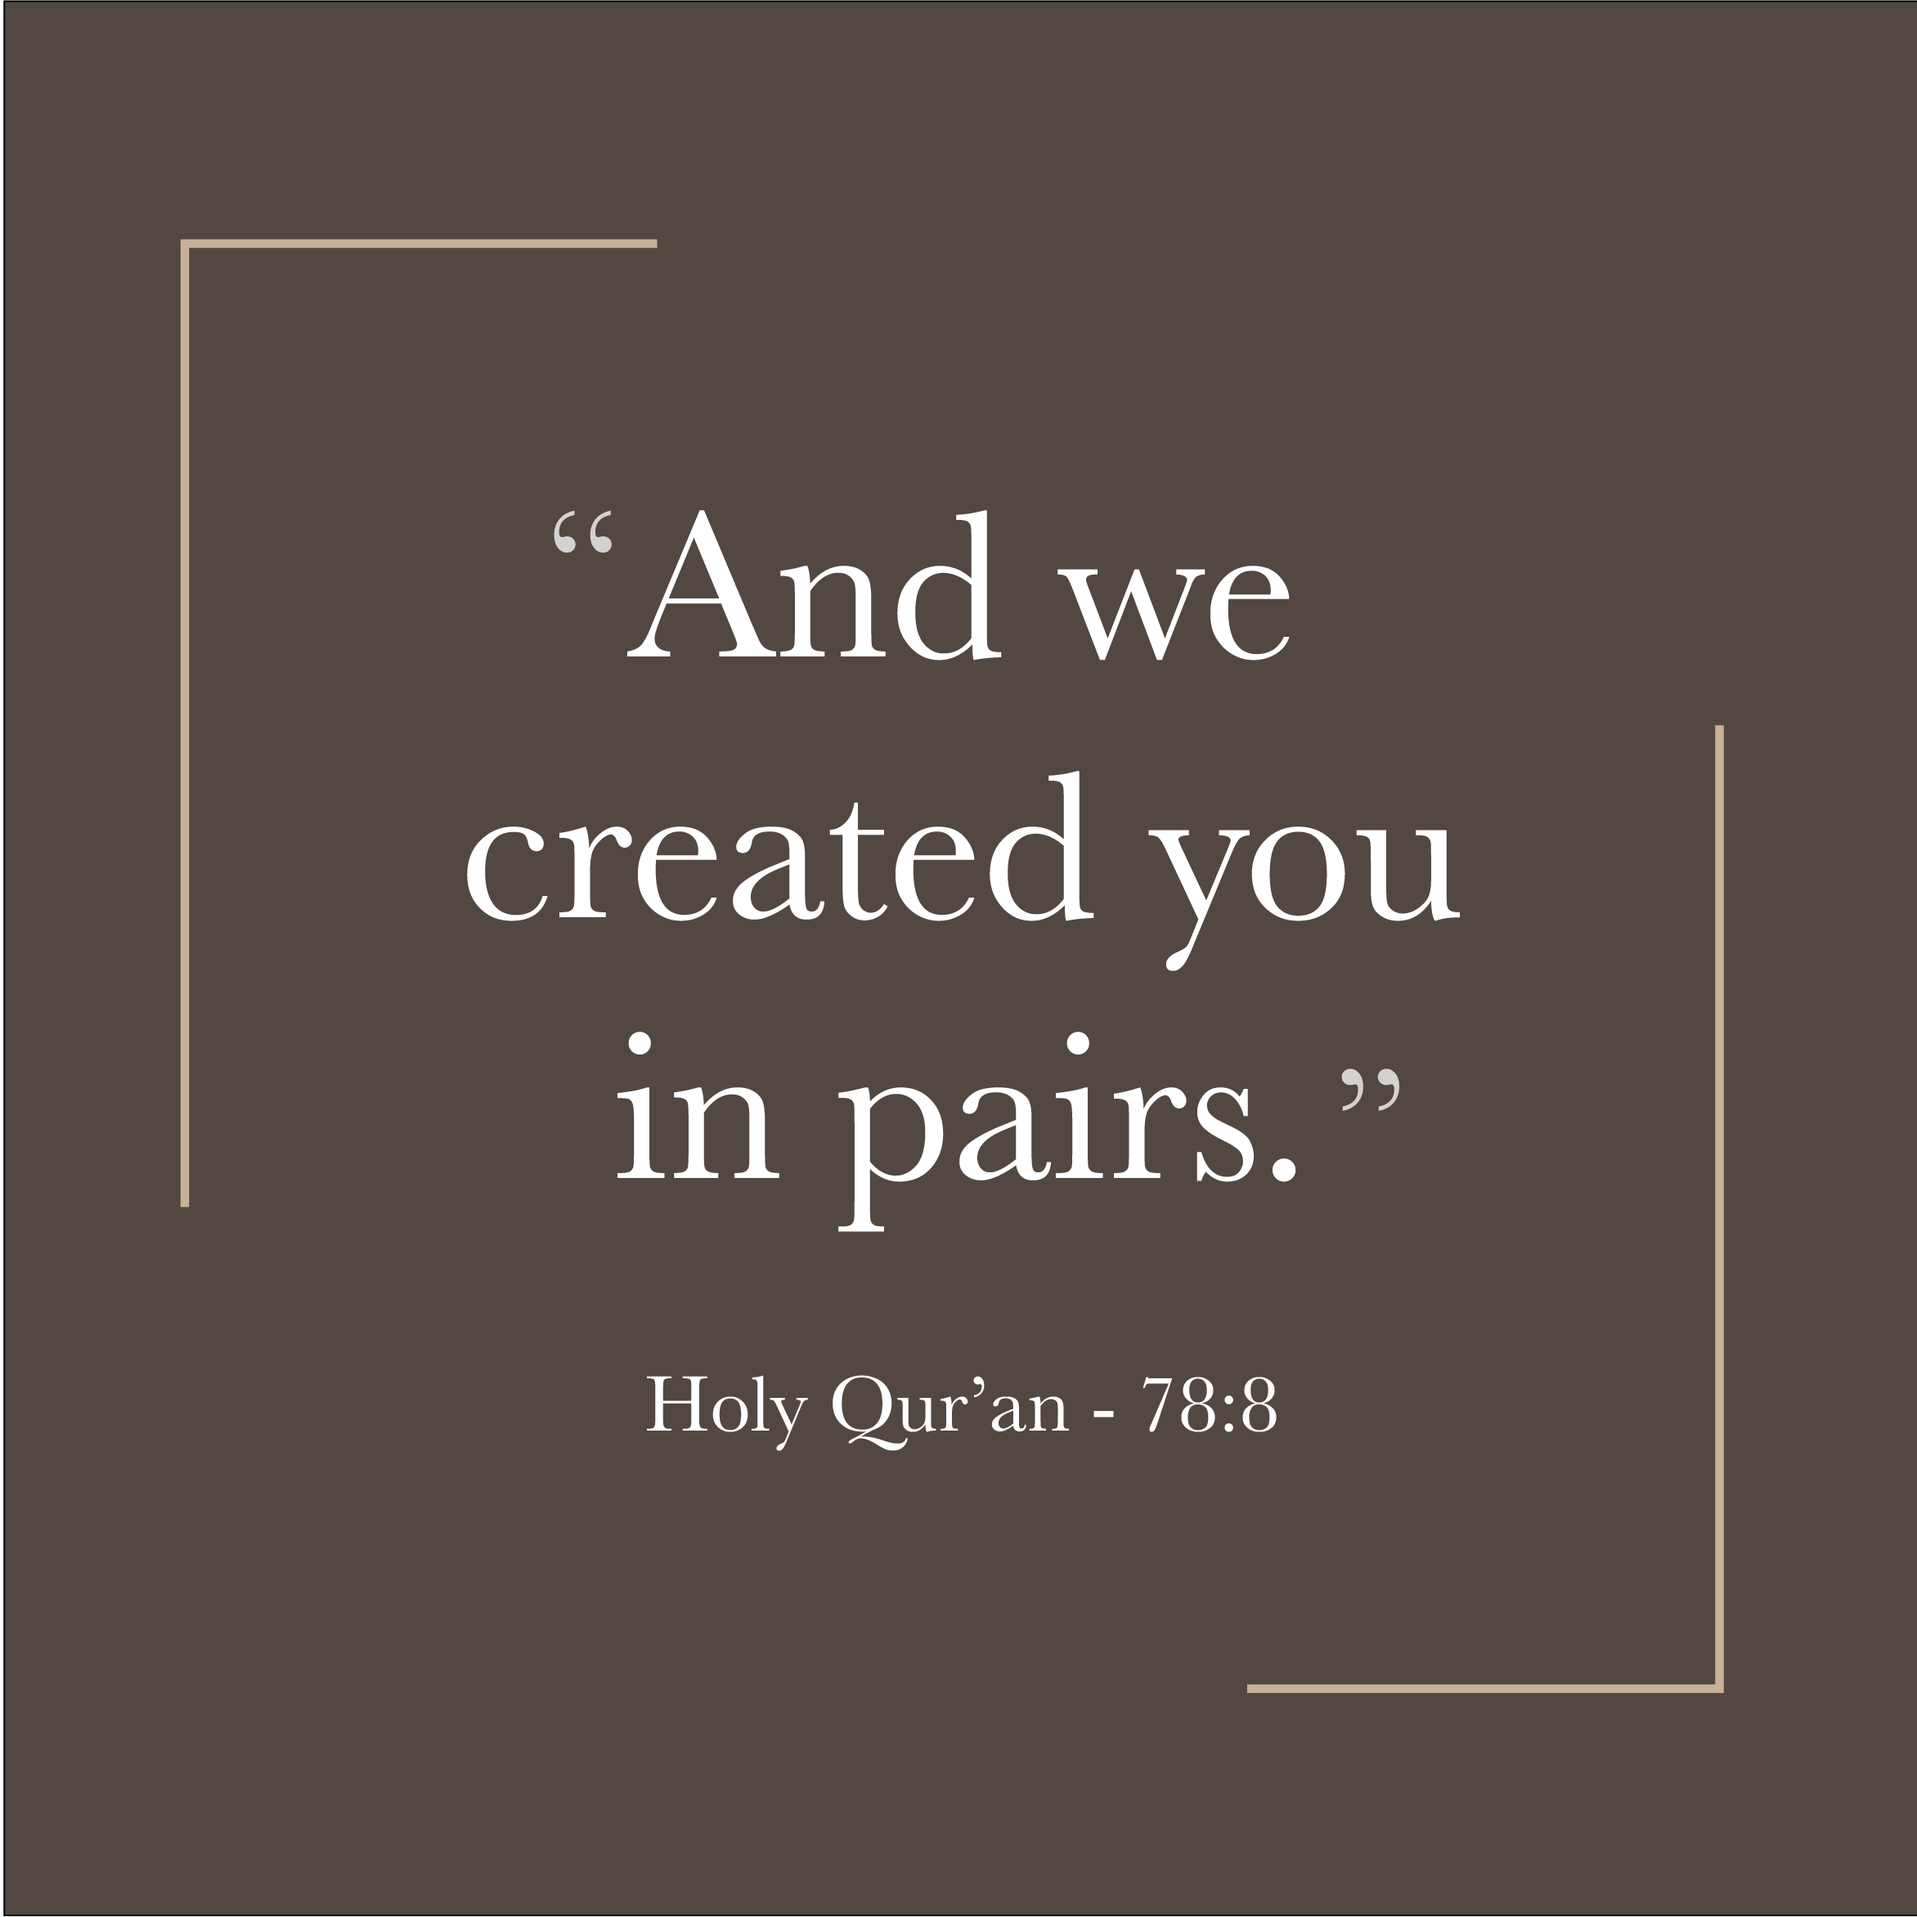
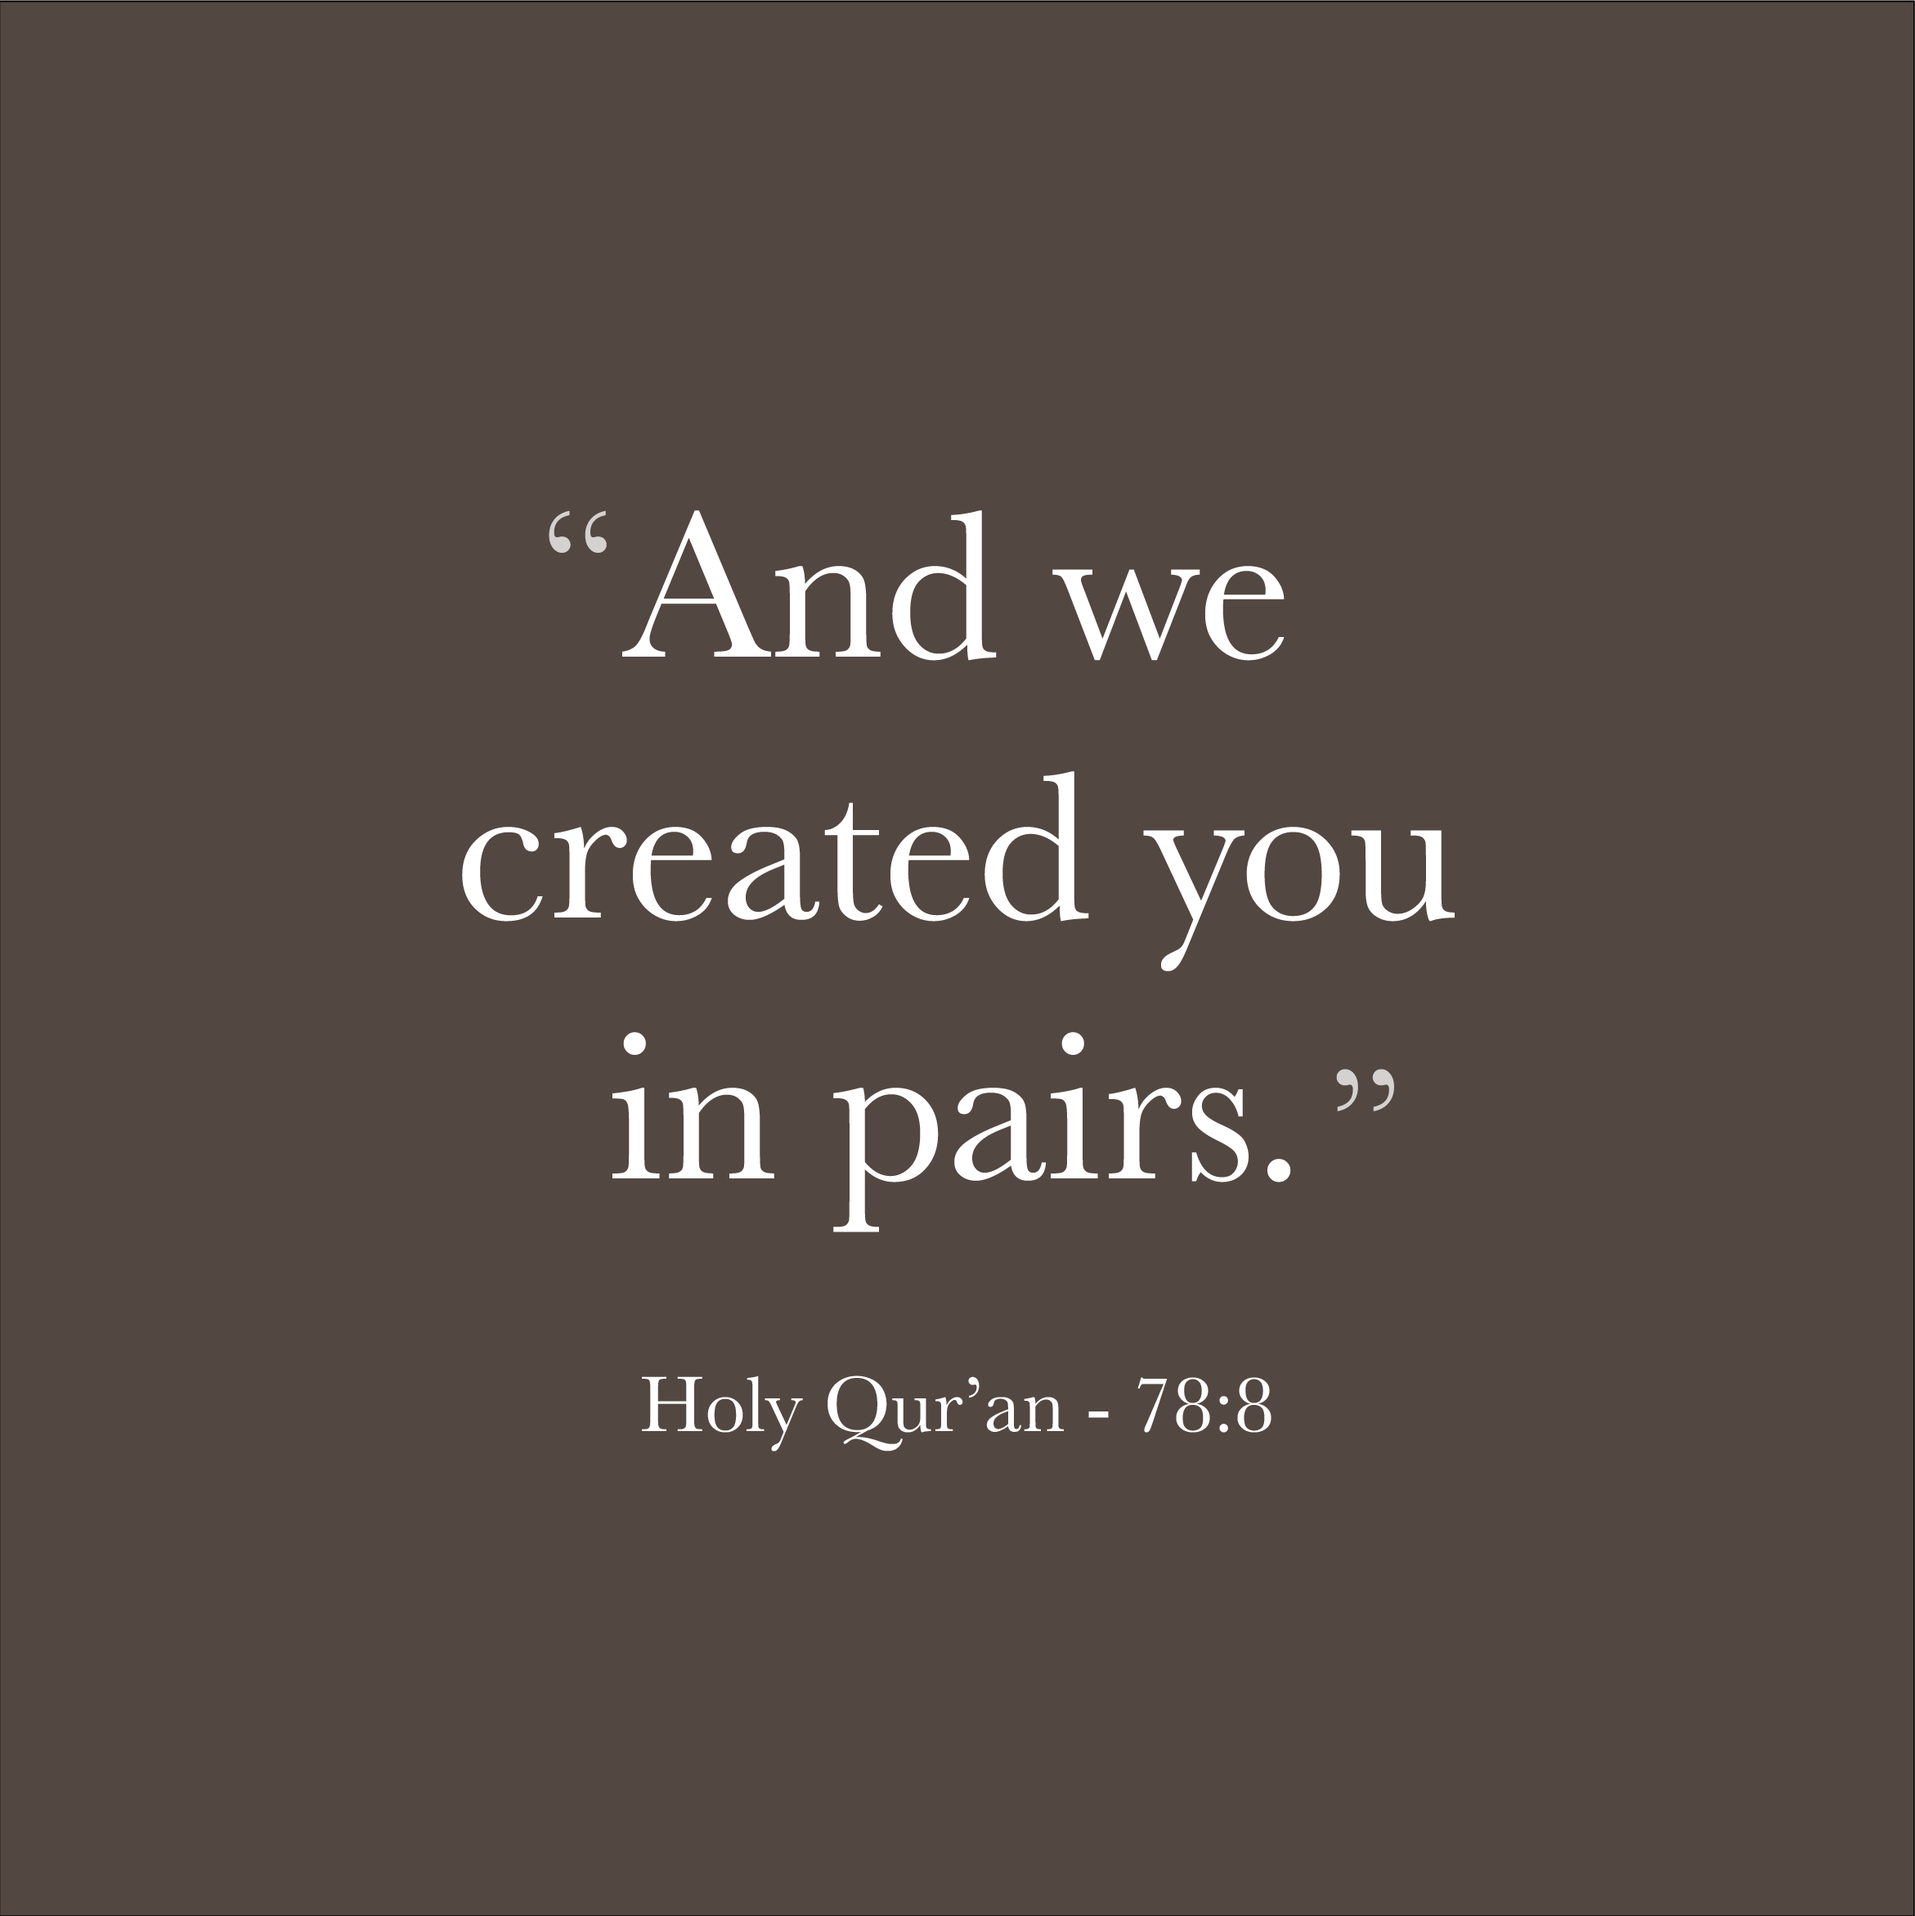
final

diff --git a/index.css b/index.css
@@ -10,6 +10,10 @@
 
 body {
     margin: 0;
+    display: flex;
+    justify-content: center;
+    flex-direction: column;
+    align-items: center;
 }
 
 .cover-container {
@@ -37,6 +41,21 @@ body {
     position: absolute;
     top: 30vw;
     left: 10vw;
+    animation: 1s ease-out 0s 1 name-slide;
+
+}
+
+@keyframes name-slide {
+    0% {
+        transform: translateX(-50px);
+        opacity: 0;
+        filter: blur(20px);
+    }
+    100% {
+        transform: translateX(0px);
+        opacity: 1;
+        filter: blur(0px);
+    }
 }
 
 h1 {
@@ -59,7 +78,22 @@ h1 {
 .date-container {
     position: absolute;
     right: 10vw;
-    bottom: 20vw;
+    bottom: 25vw;
+    animation: 1s ease-out 0s 1 date-slide;
+
+}
+
+@keyframes date-slide {
+    0% {
+        transform: translateX(50px);
+        opacity: 0;
+        filter: blur(20px);
+    }
+    100% {
+        transform: translateX(0px);
+        opacity: 1;
+        filter: blur(0px);
+    }
 }
 
 .date-container h1 {
@@ -120,6 +154,10 @@ p {
     font-size: 36px;
     margin: 5px;
     top: 13vw;
+    width: 0%;
+    text-align: center;
+    overflow: hidden;
+    white-space: nowrap;
 }
 
 .time-container h3:nth-of-type(2) {
@@ -129,7 +167,21 @@ p {
     font-size: 24px;
     margin: 5px;
     top: 25vw;
+    width: 0%;
+    text-align: center;
+    overflow: hidden;
+    white-space: nowrap;
 }
+
+.typing {
+    animation: typing 2s ease-in forwards;
+
+}
+
+@keyframes typing {
+    from { width: 0% }
+    to { width: 100% }
+  }
 
 .venue-container {
     position: relative;
@@ -155,13 +207,30 @@ p {
     left: 50%;
     transform: translateX(-50%);
     font-size: 72px;
-    filter: drop-shadow(0px 0px 5px black);
+    opacity: 0;
+    filter: drop-shadow(0px 0px 5px black) blur(20px);
+    
+}
+
+.venue-fade {
+    animation: venue-fade 1s ease-out forwards;
 }
 
 .venue-container h2 {
     font-weight: 200;
     font-size: 22px;
     width: 80%;
+}
+
+@keyframes venue-fade {
+    0% {
+        opacity: 0;
+        filter: blur(20px);
+    }
+    100% {
+        opacity: 1;
+        filter: blur(0px);
+    }
 }
 
 .venue-container h2 {
@@ -172,35 +241,95 @@ p {
 .venue-container h2::before, .venue-container h2::after {
     position: absolute;
     top: 51%;
-    width: 15%;
+    width: 5%;
     height: 1px;
     content: '';
     background-color: #534741;
 }
 
 .venue-container h2::before {
-    margin-left: -16vw;
+    margin-left: -6vw;
     text-align: right;
 }
 
 .venue-container h2::after {
-    margin-left: 4vw;
+    margin-left: 2vw;
     text-align: right;
 }
 
 #address {
-    letter-spacing: 2px;
+    letter-spacing: 0px;
+    text-align: center;
     margin-top: 0;
 }
 
 #dress-colour {
     color: #c7b299;
+    display: inline;
+    position: relative;
+    animation: underline 1s ease-out forwards;
+}
+
+#dress-colour::after {
+    content: '';
+    position: absolute;
+    width: 100%;
+    height: 1px;
+    bottom: 0;
+    left: 0;
+    transform: scaleX(0);
+    background-color: #c7b299;
+    transform-origin:bottom left;
+    transition: all 1s ease-out;
+}
+
+@keyframes underline {
+    0% {
+        transform: scaleX(0);
+    }
+    100% {
+        transform: scaleX(1);
+    }
+}
+
+.quote-container {
+    display: flex;
+    justify-content: center;
+    align-items: center;
+    flex-direction: column;
+    margin-top: 50px;
+    margin-bottom: 50px;
+    position: relative;
 }
 
 .quote {
-    margin-top: 50px;
     width: 100%;
-    margin-bottom: 50px;
+}
+
+#quote-border {
+    position: absolute;
+    width: 80%;
+}
+
+.quote-lines {
+
+    fill: none;
+    stroke: #c7b299;
+    stroke-linecap: round;
+    stroke-linejoin: round;
+    stroke-width: 5px;
+    stroke-dasharray: 1000;
+    stroke-dashoffset: 1000;
+}
+
+.quote-anim {
+    animation: drawlines 2s ease-out forwards;
+}
+
+@keyframes drawlines {
+    to {
+        stroke-dashoffset: 0;
+    }
 }
 
 .stats-container {

diff --git a/index.html b/index.html
@@ -42,24 +42,36 @@
 
   <div class="time-container">
     <img src="img/floral.webp">
-    <h3>Saturday 7pm</h3>
-    <h3>2nd of December 2023</h3>
+    <h3 id="date-1">Saturday 7pm</h3>
+    <h3 id="date-2">2nd of December 2023</h3>
   </div>
 
   <div class="venue-container">
    <div id="vanilla-container">
-    <img src="img/vanilla.png">
-    <h1>VENUE</h1>
+    <img src="img/venue.png">
+    <h1 id="venue-label">VENUE</h1>
    </div>
-   <h2>VANILLA LOUNGE</h2>
-   <p id="address">17-21 Eaton Mall, Oakleigh VIC 3166</p>
+   <h2>THE NATIONAL HOTEL</h2>
+   <p id="address">344 Victoria Street, Richmond VIC 3121</p>
 
    <br>
 
    <p>Please keep in mind the dress code, which is semi-formal in any colour <strong>BUT</strong> the colour <strong id="dress-colour">CREAM</strong>.</p>
   </div>
 
-  <img class="quote" src="img/quote.png">
+  <div class="quote-container">
+    <img class="quote" src="img/quote.png">
+
+    <svg xmlns="http://www.w3.org/2000/svg" viewBox="0 0 905.74 853.51" id="quote-border">
+      <defs></defs>
+      <g id="Layer_2" data-name="Layer 2">
+        <g id="Layer_1-2" data-name="Layer 1">
+          <polyline class="quote-lines" id="line-1" points="2.5 568.12 2.5 2.5 279.64 2.5"/>
+          <polyline class="quote-lines" id="line-2" points="903.24 285.38 903.24 851.01 626.1 851.01"/>
+        </g>
+      </g>
+    </svg>
+  </div>
 
   <div class="stats-container">
     <h2 style="margin-bottom: 20px;">After...</h2>
@@ -94,6 +106,8 @@
   </table>
 
   <div id="cover-bg-2"></div>
+
+  <script src="script.js"></script>
 
 </body>
 

diff --git a/script.js b/script.js
@@ -1,0 +1,32 @@
+let dateDone = false;
+let venueDone = false;
+let underlineDone = false;
+let quoteDone = false;
+
+addEventListener('scroll', ()=> {
+    var scrollTop = (window.pageYOffset !== undefined) ? window.pageYOffset : (document.documentElement || document.body.parentNode || document.body).scrollTop;
+    console.log(scrollTop);
+
+    if (scrollTop > 500 && !dateDone) {
+        document.getElementById("date-1").classList.add("typing");
+        document.getElementById("date-2").classList.add("typing");
+        dateDone = true;
+    }
+
+    if (scrollTop > 1000 && !venueDone) {
+        document.getElementById("venue-label").classList.add("venue-fade");
+        venueDone = true;
+    }
+
+    if (scrollTop > 1400 && !underlineDone) {
+        let code = document.styleSheets[0].cssRules[37];
+        code.style.animation = "underline 1s ease-out forwards"
+        underlineDone = true;
+    }
+
+    if (scrollTop > 1800 && !quoteDone) {
+        document.getElementById("line-1").classList.add("quote-anim");
+        document.getElementById("line-2").classList.add("quote-anim");
+        quoteDone = true;
+    }
+})
